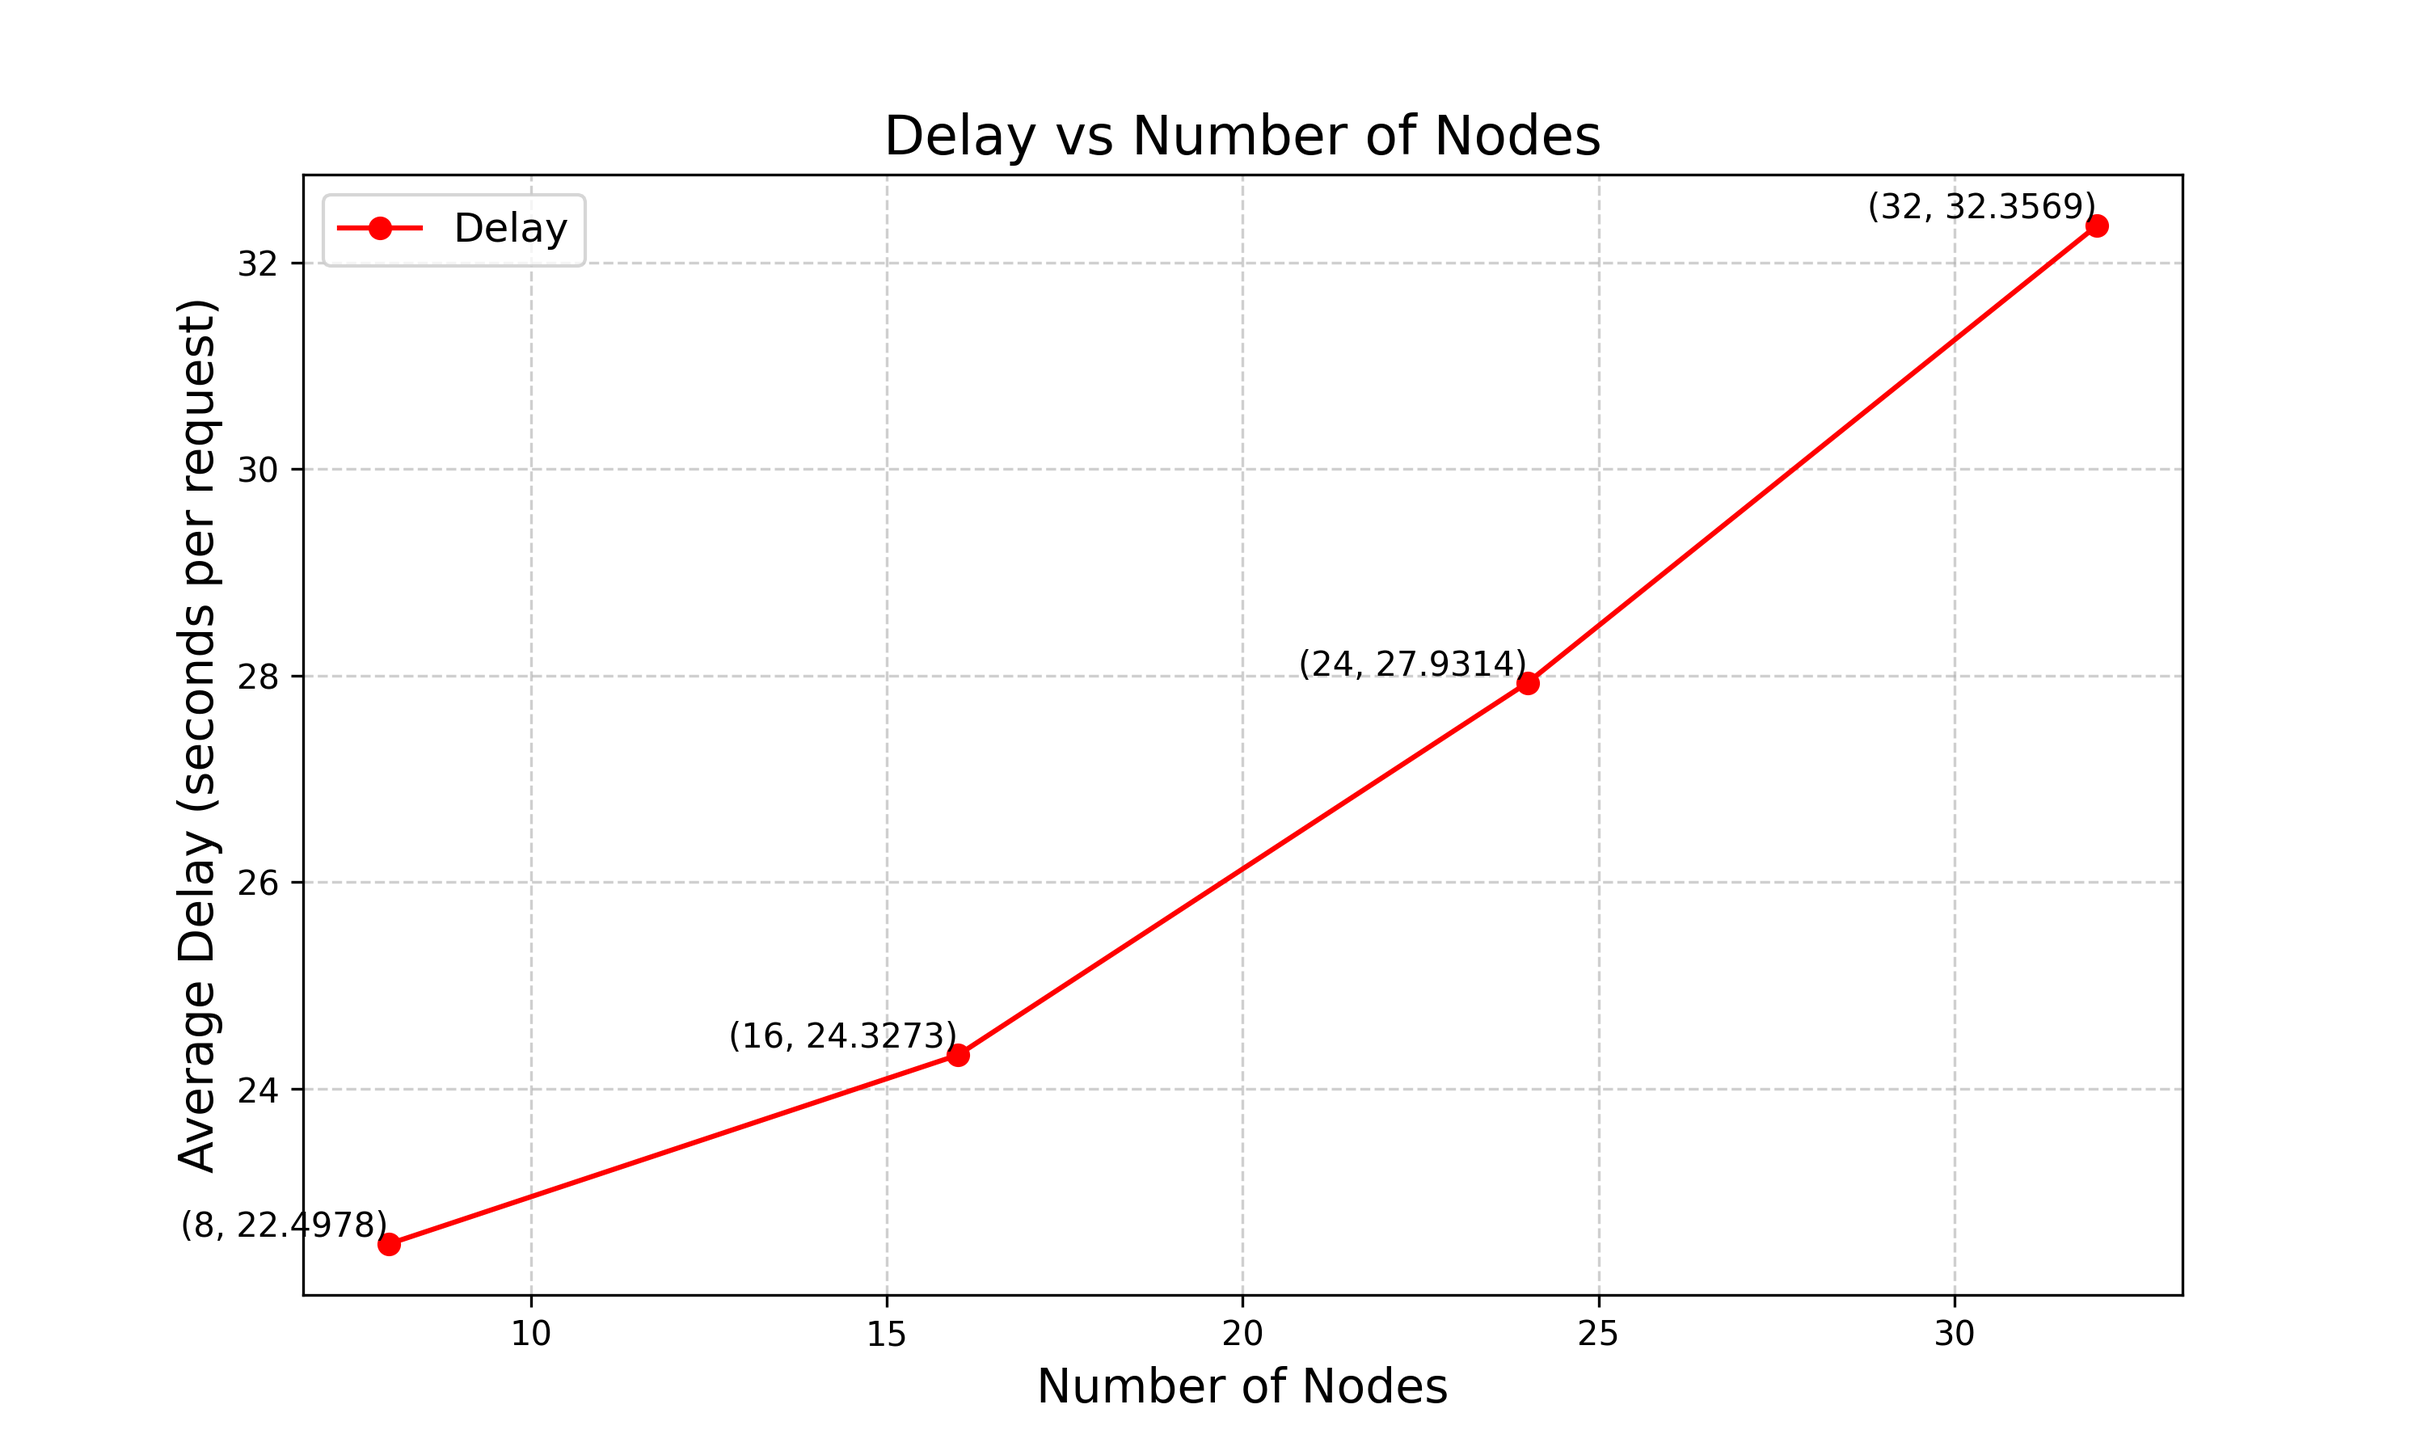
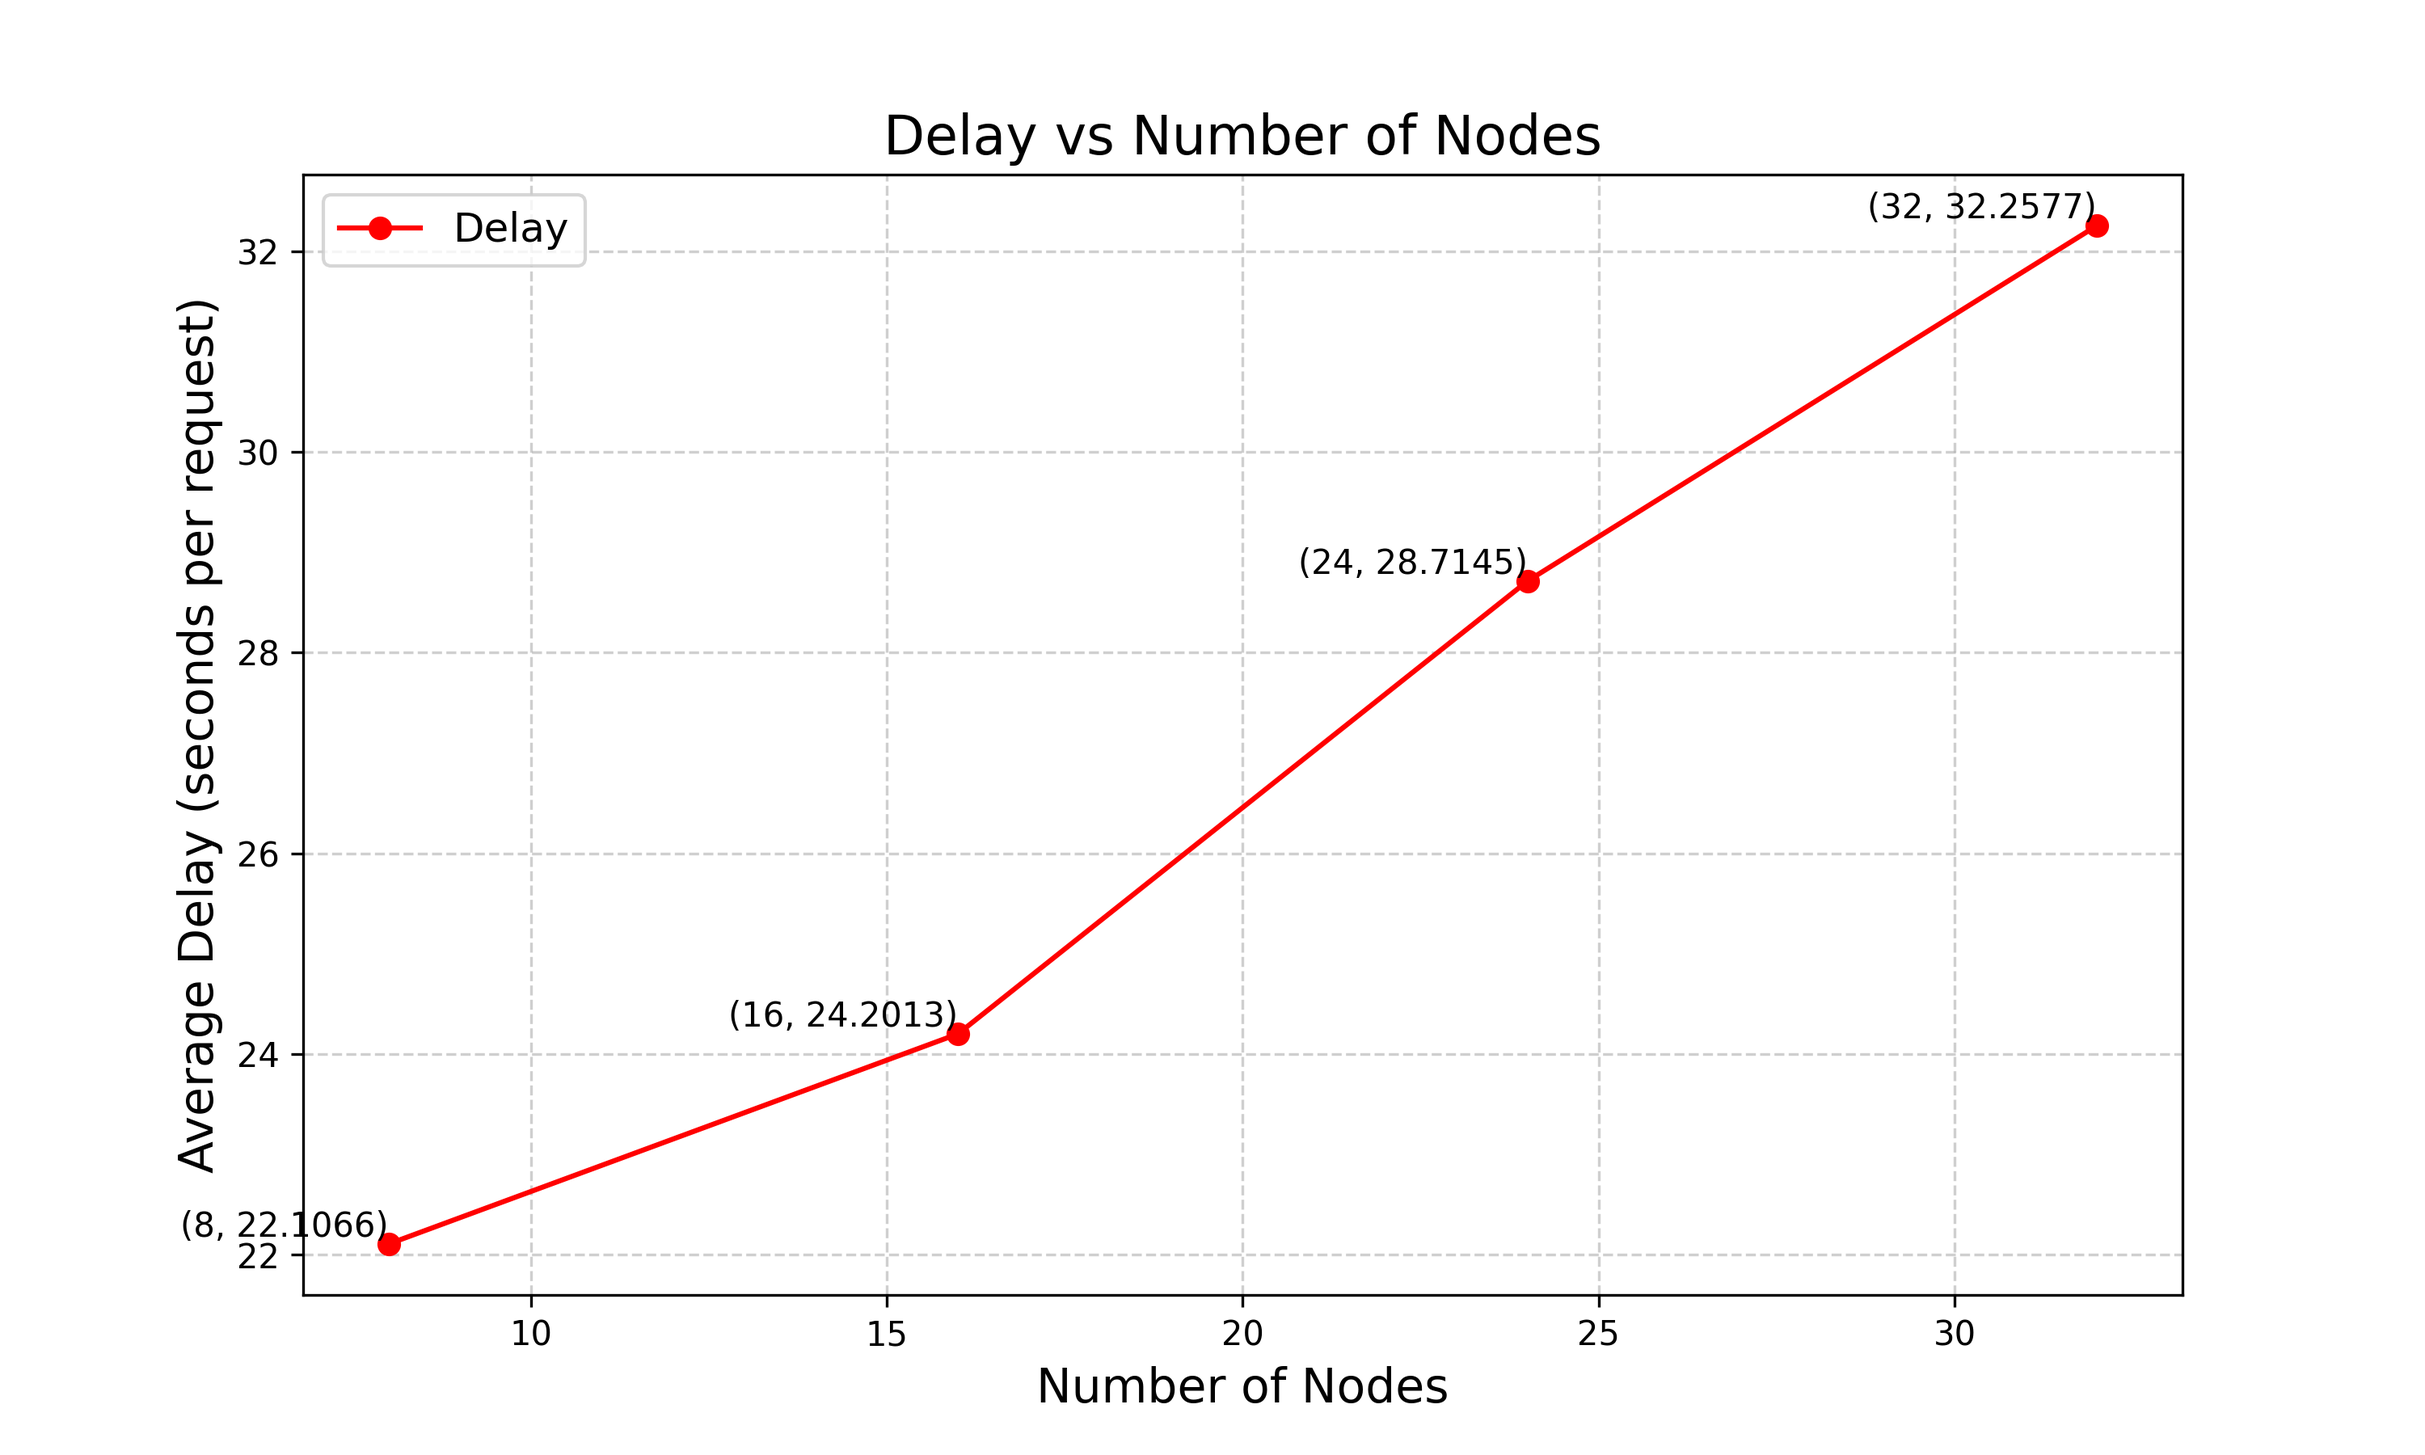
Updated Some Final Resutls

diff --git a/thr_comparison_percentage.py b/thr_comparison_percentage.py
@@ -1,0 +1,159 @@
+import matplotlib.pyplot as plt
+
+def parse_throughput_file(filepath):
+    """
+    Parses a throughput file and extracts the number of nodes and corresponding throughput.
+
+    :param filepath: Path to the throughput file.
+    :return: A dictionary with "nodes" and "throughput" keys.
+    """
+    nodes = []
+    throughputs = []
+
+    with open(filepath, "r") as file:
+        for line in file:
+            if line.startswith("Total number of nodes:"):
+                nodes.append(int(line.split(":")[1].strip()))
+            elif line.startswith("Average throughput:"):
+                throughputs.append(float(line.split(":")[1].strip().split()[0]))
+
+    return {"nodes": nodes, "throughput": throughputs}
+
+
+def calculate_percentage_contributions_relative_to_alea(alea_data, other_data):
+    """
+    Calculates percentage contributions of absolute differences relative to Alea BFT values,
+    considering only nodes present in both datasets.
+
+    :param alea_data: Dictionary with "nodes" and "throughput" for Alea BFT.
+    :param other_data: Dictionary with "nodes" and "throughput" for the group being compared.
+    :return: List of percentage contributions and the corresponding indices for Alea and Other.
+    """
+    alea_nodes = alea_data["nodes"]
+    alea_throughput = alea_data["throughput"]
+    other_nodes = other_data["nodes"]
+    other_throughput = other_data["throughput"]
+
+    # Find common nodes between Alea and the other group
+    common_nodes = set(alea_nodes).intersection(other_nodes)
+
+    # Calculate percentage contributions for common nodes
+    percentage_contributions = []
+    alea_indices = []
+    other_indices = []
+    for node in common_nodes:
+        alea_index = alea_nodes.index(node)
+        other_index = other_nodes.index(node)
+        alea_value = alea_throughput[alea_index]
+        other_value = other_throughput[other_index]
+        percentage_diff = (abs(other_value - alea_value) / alea_value) * 100
+        percentage_contributions.append(percentage_diff)
+        alea_indices.append(alea_index)  # Indices relative to Alea's nodes
+        other_indices.append(other_index)  # Indices relative to Other's nodes
+
+    return percentage_contributions, alea_indices, other_indices
+
+
+def plot_throughput_vs_nodes(filepaths, labels, colors, output_file):
+    """
+    Plots average throughput vs number of nodes for multiple datasets with highest percentage contributions annotated.
+
+    :param filepaths: List of file paths to throughput files.
+    :param labels: List of labels for the datasets.
+    :param colors: List of colors for the datasets.
+    :param output_file: File path to save the graph.
+    """
+    plt.figure(figsize=(10, 6))
+
+    # Load data for all files
+    all_data = [parse_throughput_file(filepath) for filepath in filepaths]
+
+    # Plot each dataset
+    for data, label, color in zip(all_data, labels, colors):
+        nodes = data["nodes"]
+        throughputs = data["throughput"]
+        plt.plot(nodes, throughputs, marker="o", label=label, color=color)
+
+    # Calculate percentage contributions relative to Alea BFT, considering only common nodes
+    alea_data = all_data[0]
+    grp_bft_4_data = all_data[1]
+    grp_bft_8_data = all_data[2]
+
+    perc_contrib_grp4, alea_indices_grp4, grp4_indices = calculate_percentage_contributions_relative_to_alea(
+        alea_data, grp_bft_4_data
+    )
+    perc_contrib_grp8, alea_indices_grp8, grp8_indices = calculate_percentage_contributions_relative_to_alea(
+        alea_data, grp_bft_8_data
+    )
+
+    # Find the highest percentage contribution for GrpSize 4 (excluding initial nodes)
+    highest_grp4_idx = perc_contrib_grp4.index(max(perc_contrib_grp4))
+    alea_grp4_node = alea_data["nodes"][alea_indices_grp4[highest_grp4_idx]]
+    grp4_value = grp_bft_4_data["throughput"][grp4_indices[highest_grp4_idx]]
+    plt.annotate(
+        f"Grp4 High: {max(perc_contrib_grp4):.2f}%",
+        xy=(alea_grp4_node, grp4_value),
+        xytext=(alea_grp4_node + 1, grp4_value * 1.1),
+        arrowprops=dict(facecolor="orange", arrowstyle="->"),
+        fontsize=10,
+    )
+
+    # Find the highest percentage contribution for GrpSize 8 (excluding initial nodes)
+    highest_grp8_idx = perc_contrib_grp8.index(max(perc_contrib_grp8))
+    alea_grp8_node = alea_data["nodes"][alea_indices_grp8[highest_grp8_idx]]
+    grp8_value = grp_bft_8_data["throughput"][grp8_indices[highest_grp8_idx]]
+    plt.annotate(
+        f"Grp8 High: {max(perc_contrib_grp8):.2f}%",
+        xy=(alea_grp8_node, grp8_value),
+        xytext=(alea_grp8_node + 1, grp8_value * 1.1),
+        arrowprops=dict(facecolor="green", arrowstyle="->"),
+        fontsize=10,
+    )
+
+    # Titles and labels
+    plt.title("Average Throughput vs Number of Nodes", fontsize=14)
+    plt.xlabel("Number of Nodes", fontsize=12)
+    plt.ylabel("Average Throughput (commands per second)", fontsize=12)
+    plt.legend(fontsize=10)
+    plt.grid(True)
+    plt.tight_layout()
+
+    # Save and show the plot
+    plt.savefig(output_file)
+    plt.show()
+
+
+# if __name__ == "__main__":
+#     # File paths to your throughput data files
+#     filepaths = [
+#         "results/throughputExp_cl_alea_bft.txt",
+#         "results/throughputExp_cl_grouped_bft_4.txt",
+#         "results/throughputExp_cl_grouped_bft_8.txt",
+#     ]
+#
+#     # Labels and colors for datasets
+#     labels = ["Alea BFT", "Grouped BFT (GrpSize - 4)", "Grouped BFT (GrpSize - 8)"]
+#     colors = ["red", "orange", "green"]
+#
+#     # File path to save the graph
+#     output_file = "results/throughput_vs_nodes_%_comparison.png"
+#
+#     # Plot the graph
+#     plot_throughput_vs_nodes(filepaths, labels, colors, output_file)
+
+if __name__ == "__main__":
+    # File paths to your throughput data files
+    filepaths = [
+        "results/throughputExp_cl_alea_bft_fault.txt",
+        "results/throughputExp_cl_grouped_bft_8_fault.txt",
+    ]
+
+    # Labels and colors for datasets
+    labels = ["Alea BFT (With Fault)", "Grouped BFT (GrpSize - 8 With Fault)"]
+    colors = ["red", "orange", "green"]
+
+    # File path to save the graph
+    output_file = "results/throughput_vs_nodes_%_comparison_fault.png"
+
+    # Plot the graph
+    plot_throughput_vs_nodes(filepaths, labels, colors, output_file)

diff --git a/delay_comparison_percentage.py b/delay_comparison_percentage.py
@@ -1,0 +1,141 @@
+import matplotlib.pyplot as plt
+
+def parse_delay_file(filepath):
+    """
+    Parses a delay file and extracts the number of nodes and corresponding average delay.
+
+    :param filepath: Path to the delay file.
+    :return: A dictionary with "nodes" and "delay" keys.
+    """
+    nodes = []
+    delays = []
+
+    with open(filepath, "r") as file:
+        for line in file:
+            if line.startswith("Total number of nodes:"):
+                nodes.append(int(line.split(":")[1].strip()))
+            elif line.startswith("Average Delay:"):
+                delays.append(float(line.split(":")[1].strip().split()[0]))
+
+    return {"nodes": nodes, "delay": delays}
+
+
+def calculate_percentage_differences(dataset1, dataset2):
+    """
+    Calculates percentage differences between two datasets.
+
+    :param dataset1: First dataset (list of delays).
+    :param dataset2: Second dataset (list of delays).
+    :return: A list of percentage differences, highest difference, and lowest difference.
+    """
+    percentage_differences = []
+    for d1, d2 in zip(dataset1, dataset2):
+        diff = abs(d1 - d2)
+        percentage_diff = (diff / max(d1, d2)) * 100  # Percentage difference based on larger value
+        percentage_differences.append((diff, percentage_diff))
+
+    # Find highest and lowest percentage differences
+    highest_diff = max(percentage_differences, key=lambda x: x[1])  # (absolute_diff, percentage_diff)
+    lowest_diff = min(percentage_differences, key=lambda x: x[1])  # (absolute_diff, percentage_diff)
+
+    return percentage_differences, highest_diff, lowest_diff
+
+
+def plot_delay_vs_nodes(filepaths, labels, colors, output_file):
+    """
+    Plots average delay vs number of nodes for multiple datasets with percentage differences annotated.
+
+    :param filepaths: List of file paths to delay files.
+    :param labels: List of labels for the datasets.
+    :param colors: List of colors for the datasets.
+    :param output_file: File path to save the graph.
+    """
+    plt.figure(figsize=(10, 6))
+
+    # Load data for all files
+    all_data = [parse_delay_file(filepath) for filepath in filepaths]
+
+    # Plot each dataset
+    for data, label, color in zip(all_data, labels, colors):
+        nodes = data["nodes"]
+        delays = data["delay"]
+        plt.plot(nodes, delays, marker="o", label=label, color=color)
+
+    # Calculate percentage differences between the first two datasets
+    nodes = all_data[0]["nodes"]  # Assuming all datasets have the same nodes
+    delays1 = all_data[0]["delay"]
+    delays2 = all_data[1]["delay"]
+    percentage_differences, highest_diff, lowest_diff = calculate_percentage_differences(delays1, delays2)
+
+    # Get the indices of highest and lowest differences
+    highest_index = percentage_differences.index(highest_diff)
+    lowest_index = percentage_differences.index(lowest_diff)
+
+    # Annotate highest difference
+    plt.annotate(
+        f"Highest Diff: {highest_diff[1]:.2f}%",
+        xy=(nodes[highest_index], delays1[highest_index]),
+        xytext=(nodes[highest_index] + 2, delays1[highest_index] * 1.1),
+        arrowprops=dict(facecolor="black", arrowstyle="->"),
+        fontsize=10,
+    )
+
+    # # Annotate lowest difference
+    # plt.annotate(
+    #     f"Lowest Diff: {lowest_diff[1]:.2f}%",
+    #     xy=(nodes[lowest_index], delays1[lowest_index]),
+    #     xytext=(nodes[lowest_index] + 2, delays1[lowest_index] * 1.1),
+    #     arrowprops=dict(facecolor="black", arrowstyle="->"),
+    #     fontsize=10,
+    # )
+
+    # Apply logarithmic scale to y-axis
+    plt.yscale("log")
+
+    # Titles and labels
+    plt.title("Average Delay vs Number of Nodes (Comparison with Differences)", fontsize=14)
+    plt.xlabel("Number of Nodes", fontsize=12)
+    plt.ylabel("Average Delay (s)", fontsize=12)
+    plt.legend(fontsize=10)
+    plt.grid(True)
+    plt.tight_layout()
+
+    # Save and show the plot
+    plt.savefig(output_file)
+    plt.show()
+
+
+# if __name__ == "__main__":
+#     # File paths to your delay data files
+#     filepaths = [
+#         "results/delayExp_cl_alea_bft.txt",
+#         "results/delayExp_cl_grouped_bft_4.txt",
+#         "results/delayExp_cl_grouped_bft_8.txt",
+#     ]
+#
+#     # Labels and colors for datasets
+#     labels = ["Alea BFT", "Grouped BFT (GrpSize - 4)", "Grouped BFT (GrpSize - 8)"]
+#     colors = ["red", "orange", "green"]
+#
+#     # File path to save the graph
+#     output_file = "results/delay_vs_nodes_comparison_annotated.png"
+#
+#     # Plot the graph
+#     plot_delay_vs_nodes(filepaths, labels, colors, output_file)
+
+if __name__ == "__main__":
+    # File paths to your delay data files
+    filepaths = [
+        "results/delayExp_cl_alea_bft_fault.txt",
+        "results/delayExp_cl_grouped_bft_8_fault.txt"
+    ]
+
+    # Labels and colors for datasets
+    labels = ["Alea BFT (With Fault)", "Grouped BFT (GrpSize - 8 With Fault)"]
+    colors = ["red", "orange"]
+
+    # File path to save the graph
+    output_file = "results/delay_vs_nodes_comparison_fault_percentage.png"
+
+    # Plot the graph
+    plot_delay_vs_nodes(filepaths, labels, colors, output_file)

diff --git a/ExperimentConfig.py b/ExperimentConfig.py
@@ -1,13 +1,13 @@
 # number of ports taken for this experiment
-numberOfPortsTakenInExperiment = 16 # Change this to the number of ports you want to take for the experiment
+numberOfPortsTakenInExperiment = 32 # Change this to the number of ports you want to take for the experiment
 
-experimentMode = "Delay"  # Change this to "Throughput" or "Delay" based on the experiment you want to run
+experimentMode = "Throughput"  # Change this to "Throughput" or "Delay" based on the experiment you want to run
 
-experimentXAxis = "BatchSize"      # Change this to "Nodes" or "BatchSize" based on the experiment you want to run
+experimentXAxis = "Nodes"      # Change this to "Nodes" or "BatchSize" based on the experiment you want to run
 
-BatchSize = 128
+BatchSize = 1
 
-folderPath = "F:/HISHAM_CSE  ASUS/MSc/CSE 6801/Project/Grp-BFT/BFT/logbatch16/"
+folderPath = "F:/HISHAM_CSE  ASUS/MSc/CSE 6801/Project/Grp-BFT/BFT/logFail/"
 
 if experimentXAxis == "Nodes":
     folder = folderPath + "" + str(numberOfPortsTakenInExperiment)
@@ -18,7 +18,7 @@ expName = "grouped_bft"    # Experiment name: alea_bft or grouped_bft
 
 grpSize = 8             # Group size (if experiment name is grouped_bft)
 
-faultName = ""          # "" or "fault" based on the experiment you want to run
+faultName = "fault"          # "" or "fault" based on the experiment you want to run
 
 fileExtName = "_" + expName if expName == "alea_bft" else f"_{expName}_{grpSize}"
 

diff --git a/delay_comparison.py b/delay_comparison.py
@@ -60,7 +60,6 @@ if __name__ == "__main__":
         "results/delayExp_cl_alea_bft.txt",
         "results/delayExp_cl_grouped_bft_4.txt",
         "results/delayExp_cl_grouped_bft_8.txt",
-        "results/delayExp_cl_grouped_bft_8_fault.txt"
     ]
 
     # Labels and colors for datasets
